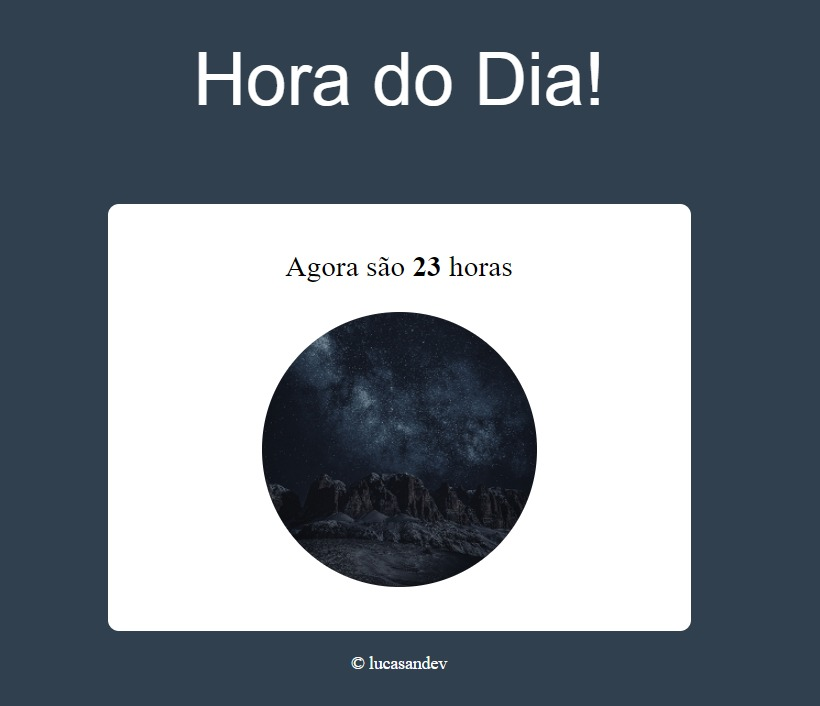
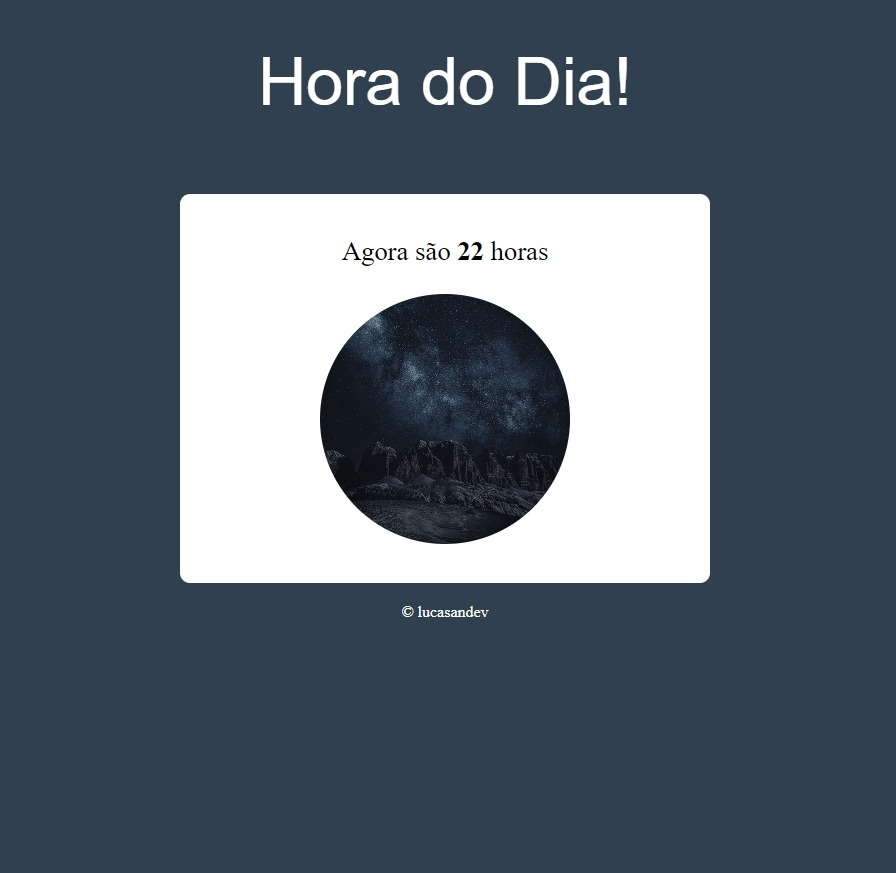
atualização
-troca de imagens dos cards
-substituição do front end para o full stack
-centralização dos cards

diff --git a/index.html b/index.html
@@ -33,7 +33,7 @@
     </nav>
     <header>
         <h1>Hello! I'm Lucas</h1>
-        <h2>Front-end Developer</h2>
+        <h2>Full-Stack Developer</h2>
         <div class="myResume">
             <a id="myResume" href="">My Resume</a>
         </div>
@@ -69,7 +69,7 @@
     </h2>
     <div class="projectsContainerPai">
         <div id="containerProjects" class="projectsContainer">
-            <div class="cardProjects">
+            <div class="cardProjects"><!--CRONÔMETRO-->
                 <div class="imgProjects3"></div>
                 <div class="textCard">
                     <h2 class="tech">Cronômetro</h2>
@@ -79,7 +79,7 @@
                     <a class="button" href="" target="blank_">View More</a>
                 </div>
             </div>
-            <div class="cardProjects">
+            <div class="cardProjects"><!--VERIFICADOR DE IDADE-->
                 <div class="imgProjects5"></div>
                 <div class="textCard">
                     <h2 class="tech">Verificador de Idade</h2>
@@ -92,7 +92,7 @@
                         More</a>
                 </div>
             </div>
-            <div class="cardProjects">
+            <div class="cardProjects"><!--HORA DO DIA-->
                 <div class="imgProjects4"></div>
                 <div class="textCard">
                     <h2 class="tech">Hora do Dia!</h2>
@@ -105,7 +105,7 @@
                         More</a>
                 </div>
             </div>
-            <div class="cardProjects">
+            <div class="cardProjects"><!--CHURRASCÔMETRO-->
                 <div class="imgProjects2"></div>
                 <div class="textCard">
                     <h2 class="tech">Churrascômetro</h2>
@@ -115,10 +115,10 @@
                     </p>
                 </div>
                 <div class="positionButton">
-                    <a class="button" href="https://lucasandev.github.io/Churrascometro/" target="blank_">View More</a>
+                    <a class="button" href="https://github.com/lucasandev/Churrascometro" target="blank_">View More</a>
                 </div>
             </div>
-            <div class="cardProjects">
+            <div class="cardProjects"><!--MEU PORTFÓLIO-->
                 <div class="imgProjects"></div>
                 <div class="textCard">
                     <h2 class="tech">My Portfolio</h2>
@@ -155,32 +155,5 @@
         </div><br><br><br>
     </div>
     </div>
-    <script>
-
-        var a = document.getElementsByTagName('li')[0]
-
-        a.addEventListener('mouseenter', entrar)
-        a.addEventListener('mouseout', sair)
-        a.addEventListener('mousedown', clicar)
-        a.addEventListener('mouseup', soltar)
-
-        function entrar() {
-
-            a.style.backgroundColor = 'rgba(255, 255, 255, 0.5)'
-            a.style.color = 'black'
-        }
-        function sair() {
-            a.style.backgroundColor = '#333333'
-            a.style.color = 'white'
-        }
-        function clicar() {
-            a.style.backgroundColor = 'white'
-            a.style.color = 'black'
-        }
-        function soltar() {
-            a.style.backgroundColor = '#333333'
-            a.style.color = 'white'
-        }
-    </script>
-
+    <script src="./script.js"></script>
 </html>

diff --git a/css/style.css b/css/style.css
@@ -105,7 +105,7 @@ p{
 }
 
 .imgProjects{
-    background-image: url(./image/proj1.jpeg);
+    background-image: url(./image/myPortfolio.jpeg);
     background-size: cover;
     background-repeat: no-repeat;
     width: 300px;
@@ -251,18 +251,15 @@ textarea{
     }
 
     .projectsContainerPai{
-        max-width: 1086px;
+        max-width: 1100px;
         margin: auto;
     }
 
     .projectsContainer{
-
-        width:fit-content;
         display: flex;
         flex-direction: row;
         flex-wrap: wrap;
         height: 100%;
-        margin: auto;
     }
     
     nav{
